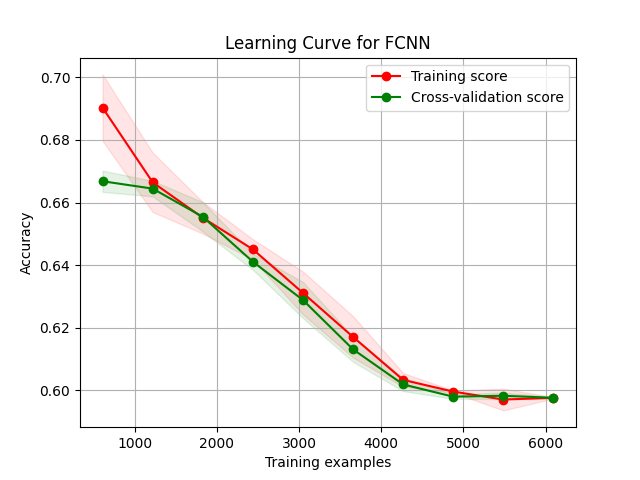
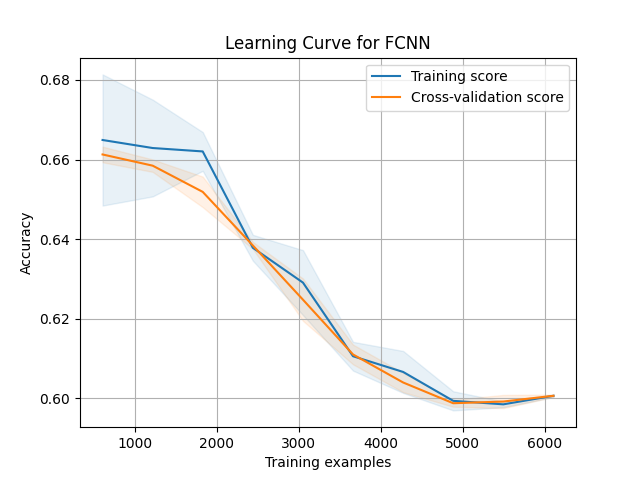
updated plot styling and reran models with latest data

diff --git a/code/utils.py b/code/utils.py
@@ -8,6 +8,9 @@ from sklearn.model_selection import learning_curve
 import torch
 from torch.utils.data import DataLoader, TensorDataset
 
+train_color = "#1f77b4"
+cross_validation_color = "#ff7f0e"
+
 
 def plot_confusion_matrix(model_name, y_test, y_pred, label_encoder, output_path):
     cm = confusion_matrix(y_test, y_pred)
@@ -104,27 +107,31 @@ def plot_learning_curve(
         train_sizes_abs = [int(len(X) * size) for size in train_sizes]
         plt.figure()
         plt.plot(
-            train_sizes_abs, train_scores_mean, "o-", color="r", label="Training score"
+            train_sizes_abs,
+            train_scores_mean,
+            "-",
+            color=train_color,
+            label="Training score",
         )
         plt.plot(
             train_sizes_abs,
             test_scores_mean,
-            "o-",
-            color="g",
+            "-",
+            color=cross_validation_color,
             label="Cross-validation score",
         )
         plt.fill_between(
             train_sizes_abs,
             np.array(train_scores_mean) - np.array(train_scores_std),
             np.array(train_scores_mean) + np.array(train_scores_std),
-            color="r",
+            color=train_color,
             alpha=0.1,
         )
         plt.fill_between(
             train_sizes_abs,
             np.array(test_scores_mean) - np.array(test_scores_std),
             np.array(test_scores_mean) + np.array(test_scores_std),
-            color="g",
+            color=cross_validation_color,
             alpha=0.1,
         )
     else:
@@ -138,27 +145,31 @@ def plot_learning_curve(
 
         plt.figure()
         plt.plot(
-            train_sizes, train_scores_mean, "o-", color="r", label="Training score"
+            train_sizes,
+            train_scores_mean,
+            "-",
+            color=train_color,
+            label="Training score",
         )
         plt.plot(
             train_sizes,
             test_scores_mean,
-            "o-",
-            color="g",
+            "-",
+            color=cross_validation_color,
             label="Cross-validation score",
         )
         plt.fill_between(
             train_sizes,
             train_scores_mean - train_scores_std,
             train_scores_mean + train_scores_std,
-            color="r",
+            color=train_color,
             alpha=0.1,
         )
         plt.fill_between(
             train_sizes,
             test_scores_mean - test_scores_std,
             test_scores_mean + test_scores_std,
-            color="g",
+            color=cross_validation_color,
             alpha=0.1,
         )
 
